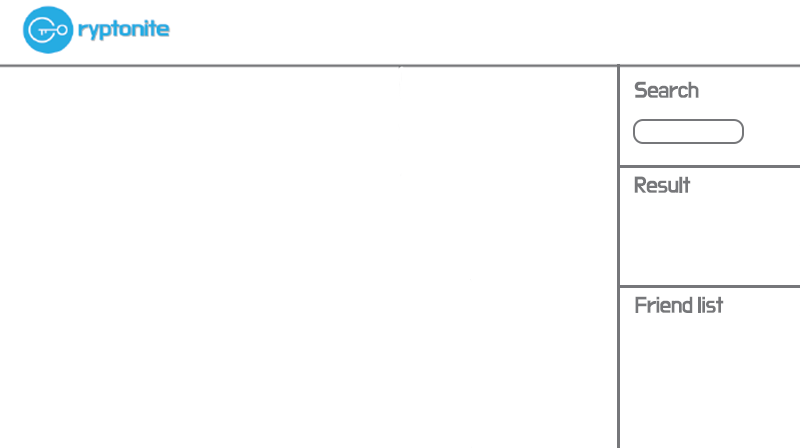
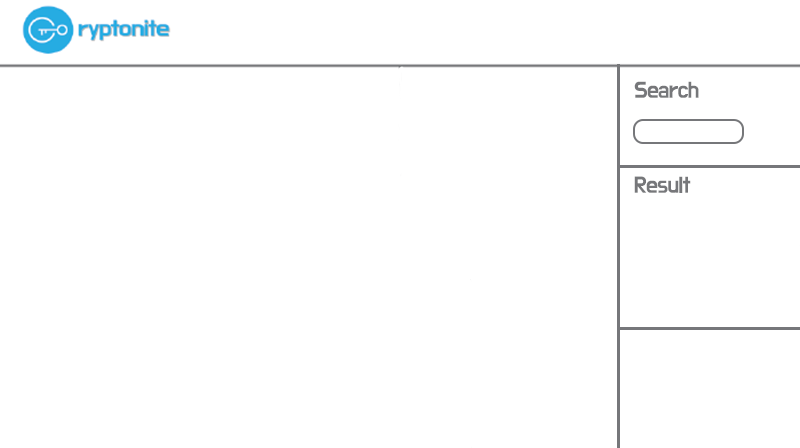
upload

Changed region(s): [[0.7812, 0.625, 1.0, 0.75]]

diff --git a/Cryptonite/src/Client/Client_Group_Main.java b/Cryptonite/src/Client/Client_Group_Main.java
@@ -3,31 +3,45 @@ package Client;
 import java.awt.image.BufferedImage;
 import java.io.File;
 import java.io.IOException;
+import java.util.ArrayList;
+
 import javax.imageio.ImageIO;
 import javax.swing.ImageIcon;
 import javax.swing.JButton;
 import javax.swing.JFrame;
 import javax.swing.JLayeredPane;
+import javax.swing.JList;
 import javax.swing.JPanel;
+import javax.swing.JTextField;
 import javax.swing.UIManager;
 import java.awt.*;
 import java.awt.event.MouseEvent;
 import java.awt.event.MouseListener;
 import java.awt.event.ActionListener;
+import java.awt.event.KeyEvent;
+import java.awt.event.KeyListener;
+import java.awt.event.MouseAdapter;
 import java.awt.event.ActionEvent;
 import javax.swing.SwingConstants;
+import javax.swing.DefaultListModel;
 import javax.swing.Icon;
 
 
 
 public class Client_Group_Main extends JFrame{
-	BufferedImage img = null;
-
-	JButton Settingbt;
-	JButton Search;
 	
-	Font fontbt = new Font("SansSerif", Font.BOLD,24);
-	Font _precondition_font = new Font ("Dialog", Font.BOLD,20);
+	private BufferedImage img = null;
+
+	private JButton Search;
+	private JTextField _idField;
+	
+	private String[] _result;
+	private static String _id;
+	
+	private Font fontbt = new Font("SansSerif", Font.BOLD,24);
+	private Font _precondition_font = new Font ("Dialog", Font.BOLD,20);
+	
+	private Client_Group_Search _cgs;
 	
 	public static void main(String args[]){
 		new Client_Group_Main();
@@ -35,6 +49,7 @@ public class Client_Group_Main extends JFrame{
 
 
 	public Client_Group_Main(){
+		_cgs=new Client_Group_Search();
 		getContentPane().setBackground(Color.WHITE);
 		setTitle("Cryptonite");
 		setBounds(0,0,816,480);
@@ -55,21 +70,57 @@ public class Client_Group_Main extends JFrame{
         
         MyPanel panel = new MyPanel();
         panel.setBounds(0, 0, 816, 480);
-
-        Settingbt = new JButton(new ImageIcon("img/Settingbt.png"));
-        Settingbt.setPressedIcon(new ImageIcon("img/Settinghbt.png"));
-        Settingbt.setBounds(706, 0, 60, 60);
-        Settingbt.setFocusPainted(false);
-        Settingbt.setContentAreaFilled(false);
-        Settingbt.setBorderPainted(false);
-        layeredPane.add(Settingbt);
-                
+           
+        _idField = new JTextField(15);
+        _idField.setBounds(640, 115, 100, 31);
+        _idField.setOpaque(false);
+        _idField.setForeground(Color.BLACK);
+        _idField.setBorder(javax.swing.BorderFactory.createEmptyBorder());
+        _idField.setHorizontalAlignment(JTextField.CENTER);
+        _idField.addKeyListener(new KeyListener(){
+     		@Override
+     		public void keyPressed(KeyEvent e) {}
+     		@Override
+     		public void keyReleased(KeyEvent e) {
+     			_id = _idField.getText();
+     		}
+     		@Override
+     		public void keyTyped(KeyEvent e) {}
+           });
+        	_idField.addMouseListener(new MouseAdapter(){
+         	public void mouseClicked(MouseEvent e){
+         		 _idField.setText("");
+         	}
+         });
+        layeredPane.add( _idField);
+        
         Search = new JButton(new ImageIcon("img/Search.png"));
         Search.setPressedIcon(new ImageIcon("img/Searchh.png"));
         Search.setBounds(740, 107, 50, 50);
         Search.setFocusPainted(false);
         Search.setContentAreaFilled(false);
         Search.setBorderPainted(false);
+        Search.addActionListener(new ActionListener() {     
+         	public void actionPerformed(ActionEvent arg0)
+         	{	
+         		new Client_Group_Search().search();
+         		_result=_cgs.getID();
+         		System.out.println(_result.length);
+         		for(int i=0;i<_result.length;i++){
+         			System.out.println(_result[i]);
+         		}
+         	     /*DefaultListModel<String> model = new DefaultListModel<>();
+                for(int i=0;i<_result.length;i++){
+                	if(!(_result[i]==Client_Group_Name.getID())){
+                		model.addElement(_result[i]);
+                	}
+                }
+                 JList<String> list = new JList<>(model);
+                 list.setBounds(640, 200, 100, 100);
+                 layeredPane.add(list);*/
+         	}
+         });
+        
         layeredPane.add(Search);
         
         
@@ -79,13 +130,17 @@ public class Client_Group_Main extends JFrame{
         
         
 	}
+	
+	public static String givename(){
+		return _id;
+	}
 	class MyPanel extends JPanel {
         public void paint(Graphics g) {
             g.drawImage(img, 0, 0, null);
             g.setColor(Color.BLACK);
         	g.setFont(_precondition_font);
         	g.drawString("Group Name : "+Client_Group_Name.GiveName(), 200, 50);
-       }
+        }
    }
 	
 }

diff --git a/Cryptonite/src/Client/Client_Group_Search_List.java b/Cryptonite/src/Client/Client_Group_Search_List.java
@@ -1,0 +1,57 @@
+package Client;
+
+import java.awt.BorderLayout;
+import java.awt.event.ActionEvent;
+import java.awt.event.ActionListener;
+
+import javax.swing.DefaultListModel;
+import javax.swing.JButton;
+import javax.swing.JFrame;
+import javax.swing.JList;
+import javax.swing.JPanel;
+import javax.swing.JScrollPane;
+
+public class Client_Group_Search_List extends JPanel {
+
+  JList list;
+
+  DefaultListModel model;
+
+  int counter = 15;
+
+  public Client_Group_Search_List() {
+    setLayout(new BorderLayout());
+    model = new DefaultListModel();
+    list = new JList(model);
+    JScrollPane pane = new JScrollPane(list);
+    JButton addButton = new JButton("Add Element");
+    JButton removeButton = new JButton("Remove Element");
+    for (int i = 0; i < 15; i++)
+      model.addElement("Element " + i);
+
+    addButton.addActionListener(new ActionListener() {
+      public void actionPerformed(ActionEvent e) {
+        model.addElement("Element " + counter);
+        counter++;
+      }
+    });
+    removeButton.addActionListener(new ActionListener() {
+      public void actionPerformed(ActionEvent e) {
+        if (model.getSize() > 0)
+          model.removeElementAt(0);
+      }
+    });
+
+    add(pane, BorderLayout.NORTH);
+    add(addButton, BorderLayout.WEST);
+    add(removeButton, BorderLayout.EAST);
+  }
+
+  public static void main(String s[]) {
+    JFrame frame = new JFrame("List Model Example");
+    frame.setDefaultCloseOperation(JFrame.EXIT_ON_CLOSE);
+    frame.setContentPane(new Client_Group_Search_List());
+    frame.setSize(260, 200);
+    frame.setVisible(true);
+  }
+}

diff --git a/Cryptonite/src/Client/Client_Group_Name.java b/Cryptonite/src/Client/Client_Group_Name.java
@@ -4,6 +4,8 @@ import java.awt.Color;
 import java.awt.Graphics;
 import java.awt.Image;
 import java.awt.Toolkit;
+import java.awt.event.ActionEvent;
+import java.awt.event.ActionListener;
 import java.awt.event.KeyEvent;
 import java.awt.event.KeyListener;
 import java.awt.event.MouseAdapter;
@@ -27,7 +29,7 @@ public class Client_Group_Name extends JFrame{
 		new Client_Group_Name(null);
 	}
 	
-	private String _id;
+	private static String _id;
 	
 	BufferedImage _img = null;
 	
@@ -144,6 +146,11 @@ public class Client_Group_Name extends JFrame{
         _cancel.setContentAreaFilled(false);
         _cancel.setRolloverIcon(new ImageIcon("gui/gn_cancelR.png"));
         _cancel.setPressedIcon(new ImageIcon("gui/gn_cancel.png"));
+       	_cancel.addActionListener(new ActionListener() {     
+         	public void actionPerformed(ActionEvent arg0) {
+         		dispose();
+         	}
+         });
         
         _layeredPane.add(_cancel);
         _layeredPane.add(_create);
@@ -152,6 +159,11 @@ public class Client_Group_Name extends JFrame{
         getContentPane().add(_layeredPane);          
         setVisible(true);
 	}
+	public static String getID()
+	{
+		return _id;
+	}
+	
 	public static String GiveName(){
 		return Name;
 	}
